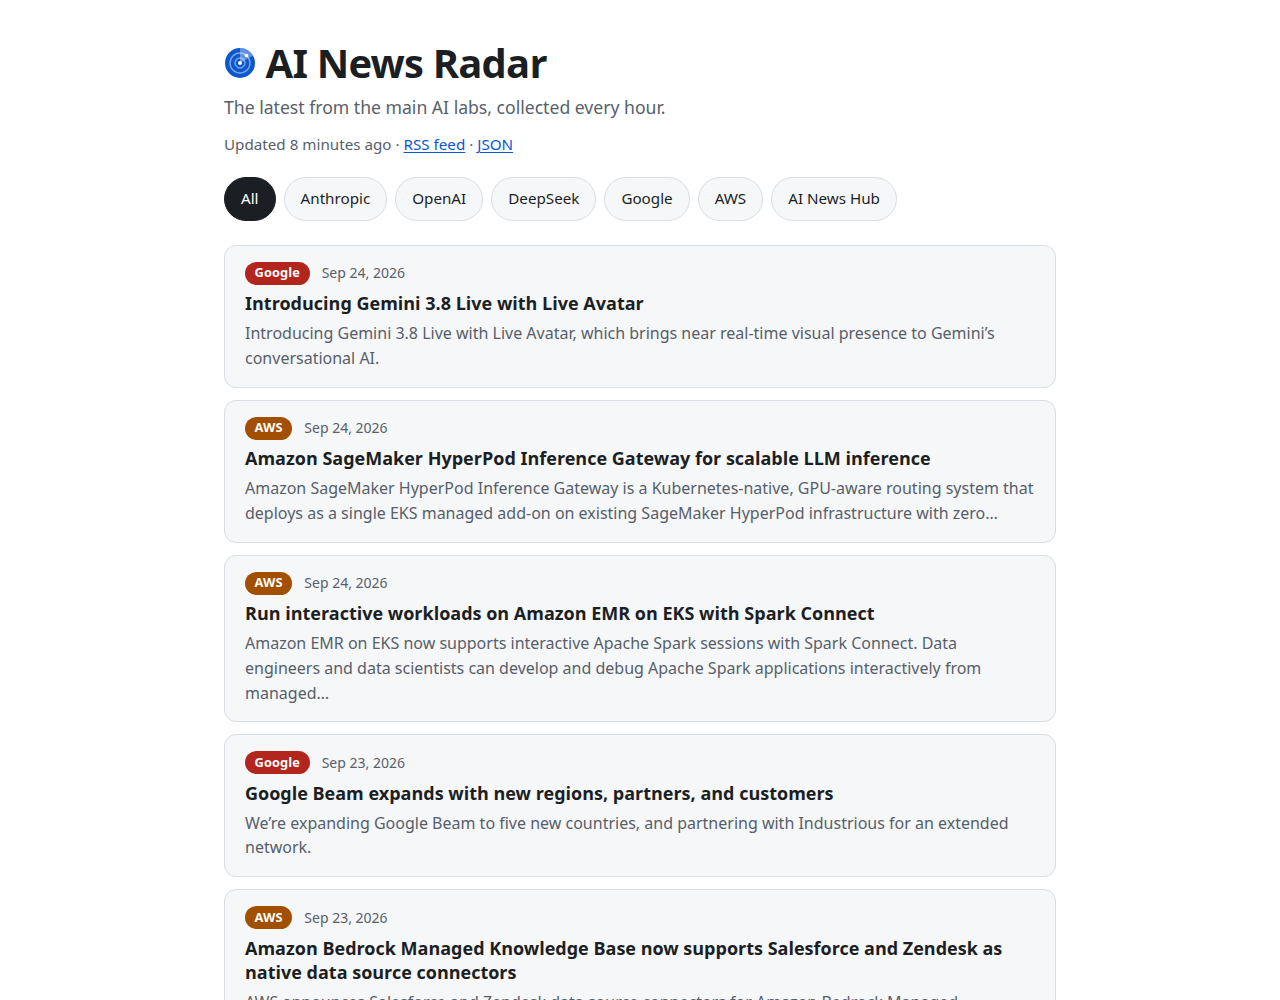
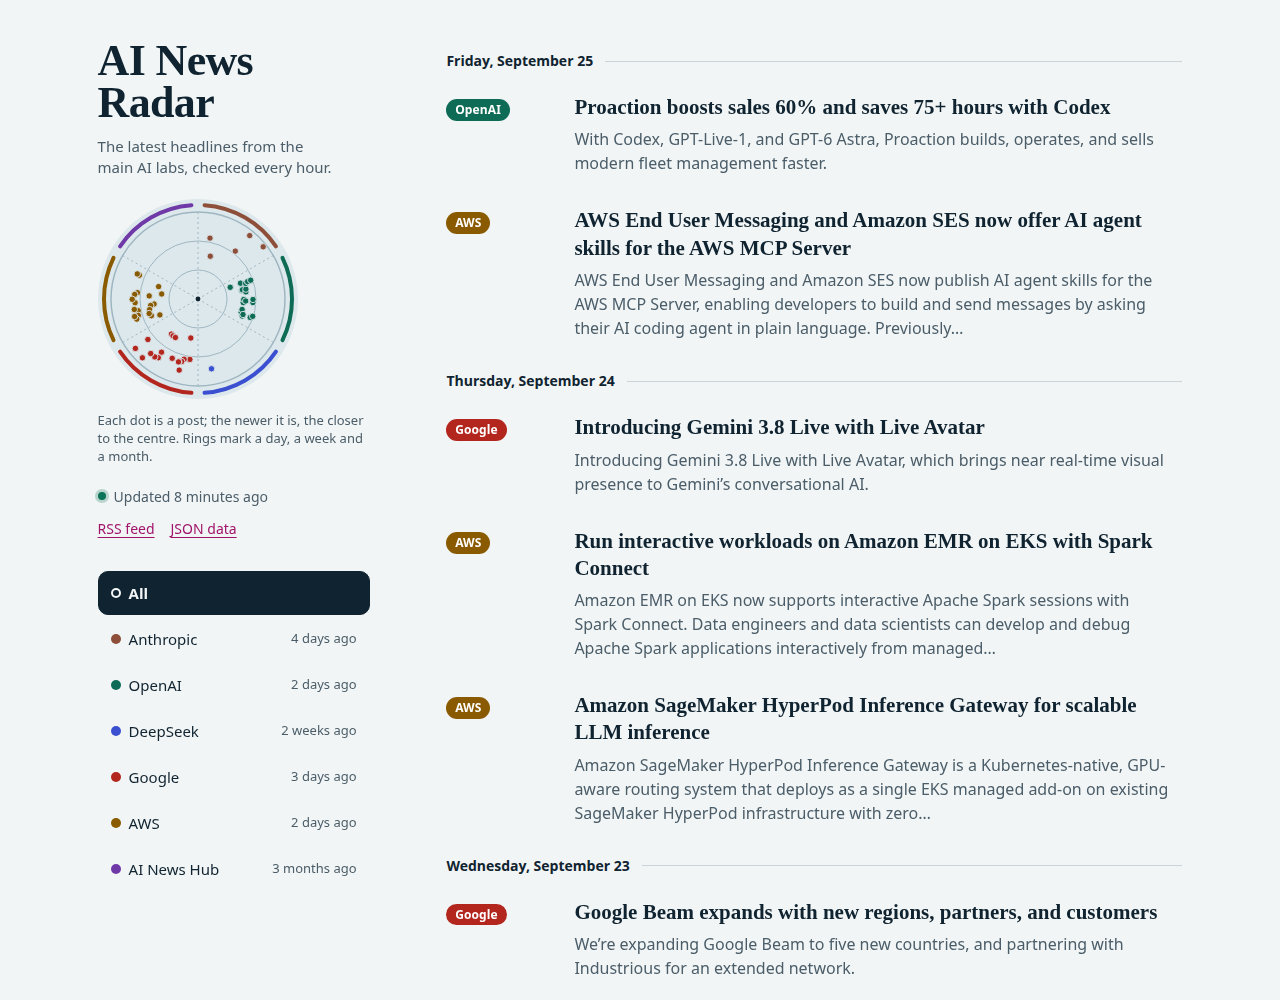
docs: live URL, new screenshots and fork notes in the README
- Link the live site, RSS feed and JSON on CloudFront.
- Replace the screenshot with the radar redesign, taken from the live site,
  with a dark-mode variant through <picture>.
- Describe the new page in the endpoints table.
- Cost: use the numbers measured on the live stack (10-14 s per run at
  256 MB, 15 objects / 123 KB) and a total of about $0.01-0.02 a month.
- Fork steps: set github_oidc_subject_prefix, because GitHub's immutable
  OIDC subjects carry the owner and repository IDs.

diff --git a/README.md b/README.md
@@ -4,13 +4,16 @@
 [![Deploy](https://github.com/Minelli-D/ai-news-radar/actions/workflows/deploy.yml/badge.svg)](https://github.com/Minelli-D/ai-news-radar/actions/workflows/deploy.yml)
 [![License: MIT](https://img.shields.io/badge/license-MIT-blue.svg)](LICENSE)
 
-**Live:** _the CloudFront URL goes here after the first deploy_ · [RSS feed](#public-endpoints) · [JSON](#public-endpoints)
+**Live:** [d1tgqahtdqvv2q.cloudfront.net](https://d1tgqahtdqvv2q.cloudfront.net) · [RSS feed](https://d1tgqahtdqvv2q.cloudfront.net/feed.xml) · [JSON](https://d1tgqahtdqvv2q.cloudfront.net/news.json)
 
 The latest news from the main AI players (Anthropic, OpenAI, DeepSeek, Google, AWS and AI
 News Hub) on one fast page, refreshed every hour. It runs on a fully serverless AWS stack,
 built and deployed with Terraform and GitHub Actions, for about **one cent a month**.
 
-![AI News Radar homepage](docs/screenshot.png)
+<picture>
+  <source media="(prefers-color-scheme: dark)" srcset="docs/screenshot-dark.png">
+  <img alt="AI News Radar homepage: a radar of the last 30 days of posts per company, company filters, and the news grouped by day" src="docs/screenshot.png">
+</picture>
 
 ## Architecture
 
@@ -77,7 +80,7 @@ article's `og:description`) are stored and shown. Article bodies are never store
 
 | Path | What it is |
 |---|---|
-| `/` | The news page (latest 60 items, filter buttons, "updated X minutes ago") |
+| `/` | The news page: a radar of each company's posts from the last 30 days, the latest 60 items grouped by day, company filters with each source's health, "updated X minutes ago" |
 | `/news.json` | Public data file: each source's latest items plus its health (CORS enabled) |
 | `/feed.xml` | Combined RSS 2.0 feed of the newest 60 items |
 | `/latest/<company>` | Redirects to that company's newest post: `anthropic`, `openai`, `deepseek`, `google`, `aws`, `ainewshub` |
@@ -135,11 +138,12 @@ article's `og:description`) are stored and shown. Article bodies are never store
 
 ## Cost
 
-Region eu-north-1, about 730 runs a month.
+Region eu-north-1, about 730 runs a month. Measured on the live stack: a collector run takes
+10–14 s at 256 MB, and the site bucket holds 15 objects (123 KB).
 
 | Service | Free allowance | Expected usage | Cost / month |
 |---|---|---|---|
-| Lambda (arm64) | 1M requests + 400,000 GB-s, always free | 730 requests, ~3,000 GB-s | $0 |
+| Lambda (arm64) | 1M requests + 400,000 GB-s, always free | 730 requests, ~2,500 GB-s | $0 |
 | EventBridge Scheduler | 14M invocations, always free | 730 | $0 |
 | DynamoDB (provisioned) | 25 GB + 25 RCU + 25 WCU, always free | < 1 MB, 5 RCU + 5 WCU | $0 |
 | CloudFront | 1 TB transfer + 10M requests, always free | < 1 GB, < 100k requests | $0 |
@@ -149,7 +153,7 @@ Region eu-north-1, about 730 runs a month.
 | AWS Budgets | budgets without actions are free | 1 budget | $0 |
 | IAM, OIDC provider | free | 1 provider, 4 roles | $0 |
 | **S3** | **not always free** | < 2 MB, ~1,000 PUT + a few thousand GET | **≈ $0.01** |
-| **Total** | | | **≈ $0.01** |
+| **Total** | | | **≈ $0.01–0.02** |
 
 Guardrails:
 - A **$5/month AWS Budget** emails at 50% and 100%. It excludes credits, so it measures real usage even while credits pay the bill.
@@ -167,6 +171,8 @@ Guardrails:
 Accounts made with AWS's new "Sign up for AWS" flow block `iam:*Provider*` and pin regional services to one Region, until you upgrade to the Paid plan and activate advanced features.
 
 1. **Fork and clone** this repository. Set `github_repository` in `bootstrap/` and `infra/` if your fork has another name.
+   - Also set `github_oidc_subject_prefix` in `bootstrap/` to your fork's `sub_claim_prefix`, from `gh api repos/<owner>/<name>/actions/oidc/customization/sub`.
+   - GitHub signs Actions tokens with immutable subjects (`repo:<owner>@<owner id>/<name>@<repo id>:…`), and the CI roles trust exactly that subject. If the prefix is wrong, the deploy fails with "Not authorized to perform sts:AssumeRoleWithWebIdentity".
 2. **Bootstrap once**, locally, with your own credentials. See [`bootstrap/README.md`](bootstrap/README.md).
    ```bash
    cd bootstrap && cp terraform.tfvars.example terraform.tfvars   # set alert_email
